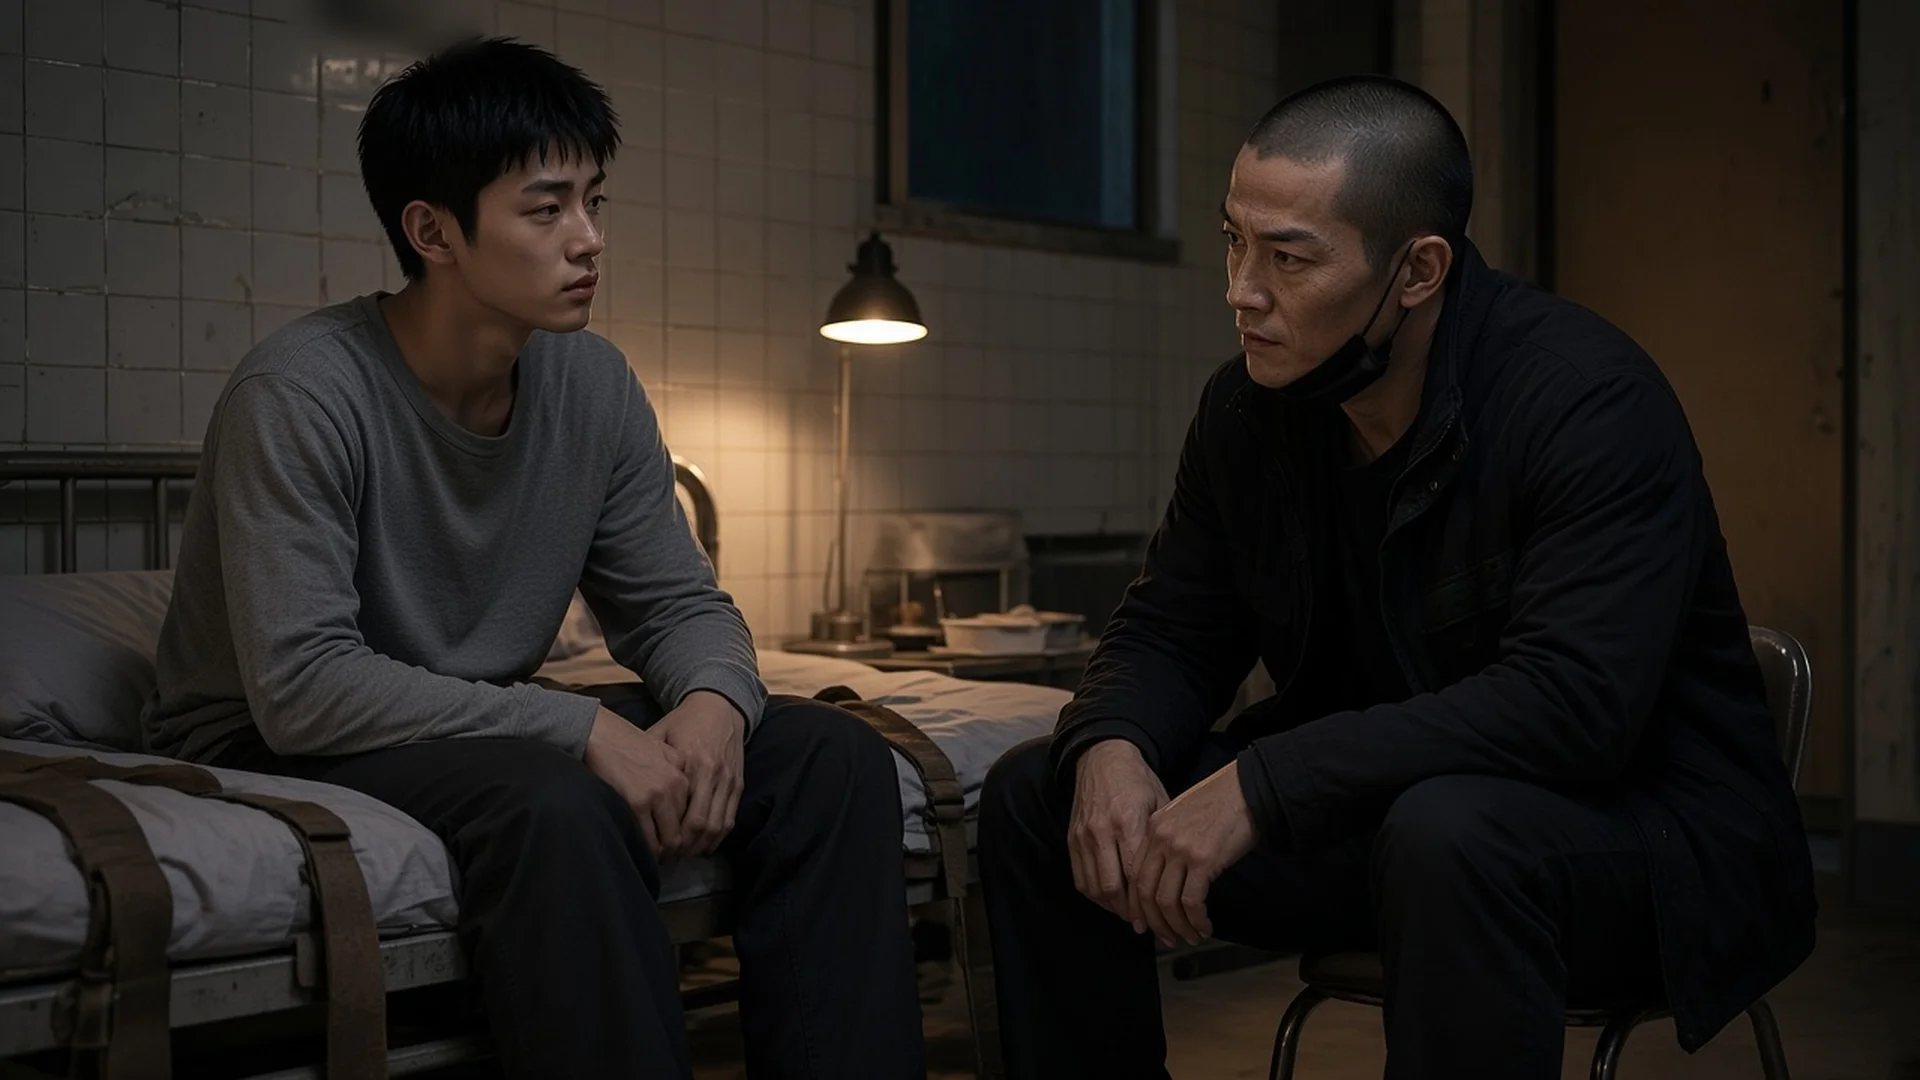
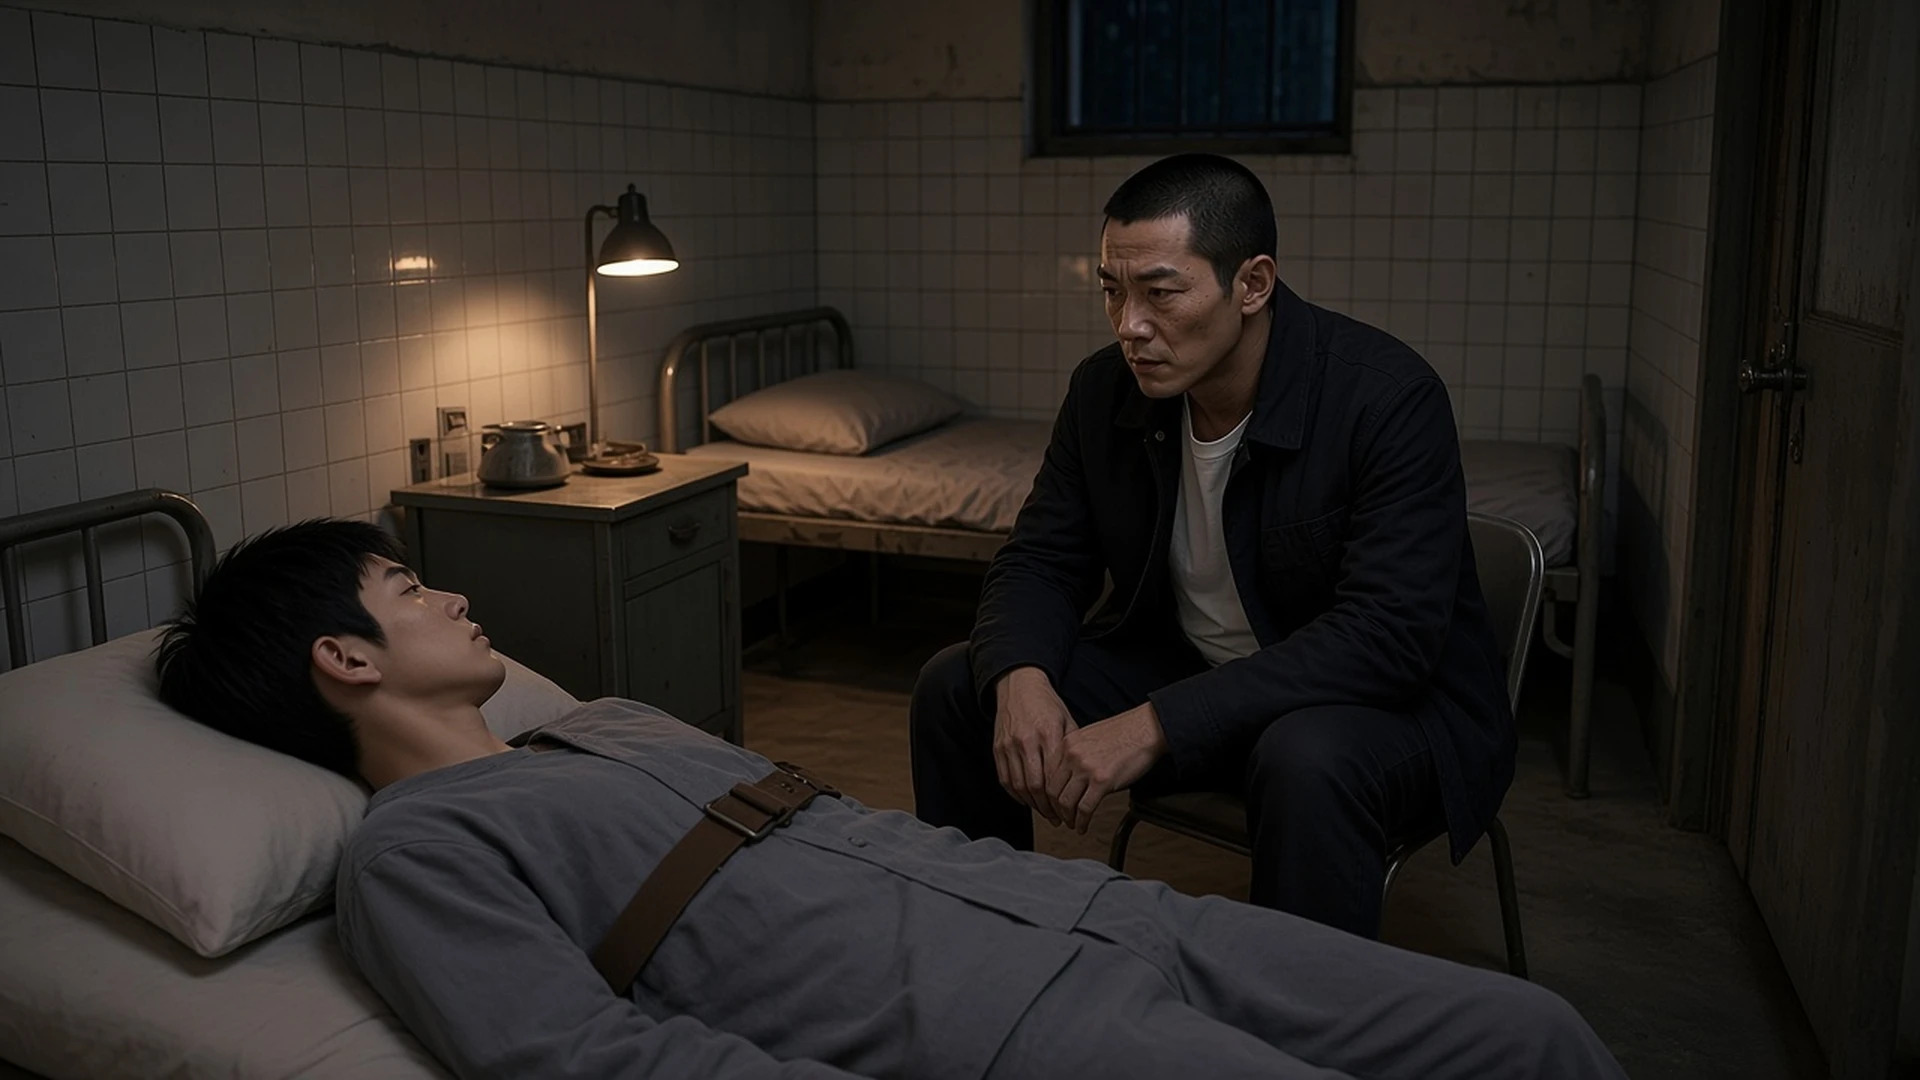
少年王測試版：c12/c22 四張重畫

diff --git a/shaonianwang/index.html b/shaonianwang/index.html
@@ -5,7 +5,7 @@
 <meta name="viewport" content="width=device-width,initial-scale=1,maximum-scale=1,user-scalable=no,viewport-fit=cover">
 <meta name="theme-color" content="#000">
 <title>少年王</title>
-<link rel="stylesheet" href="style.css?v=11031913">
+<link rel="stylesheet" href="style.css?v=11031922">
 </head>
 <body>
 <div id="stage">
@@ -60,9 +60,9 @@
 
   <div id="ending" class="screen hide"><div class="eWrap"><div class="eTag" id="eTag"></div><h2 id="eName"></h2><p id="eDesc"></p><div id="eVerdict"></div><div id="eNear"></div><div class="tBtns"><button id="eBack">回到上一個選擇</button><button id="eReplay">重來一次</button><button id="eTitle">回到標題</button></div></div></div>
 </div>
-<script>window.SNW_V='11031913';</script>
-<script src="voicemap.js?v=11031913"></script>
-<script src="story.js?v=11031913"></script>
-<script src="engine.js?v=11031913"></script>
+<script>window.SNW_V='11031922';</script>
+<script src="voicemap.js?v=11031922"></script>
+<script src="story.js?v=11031922"></script>
+<script src="engine.js?v=11031922"></script>
 </body>
 </html>
